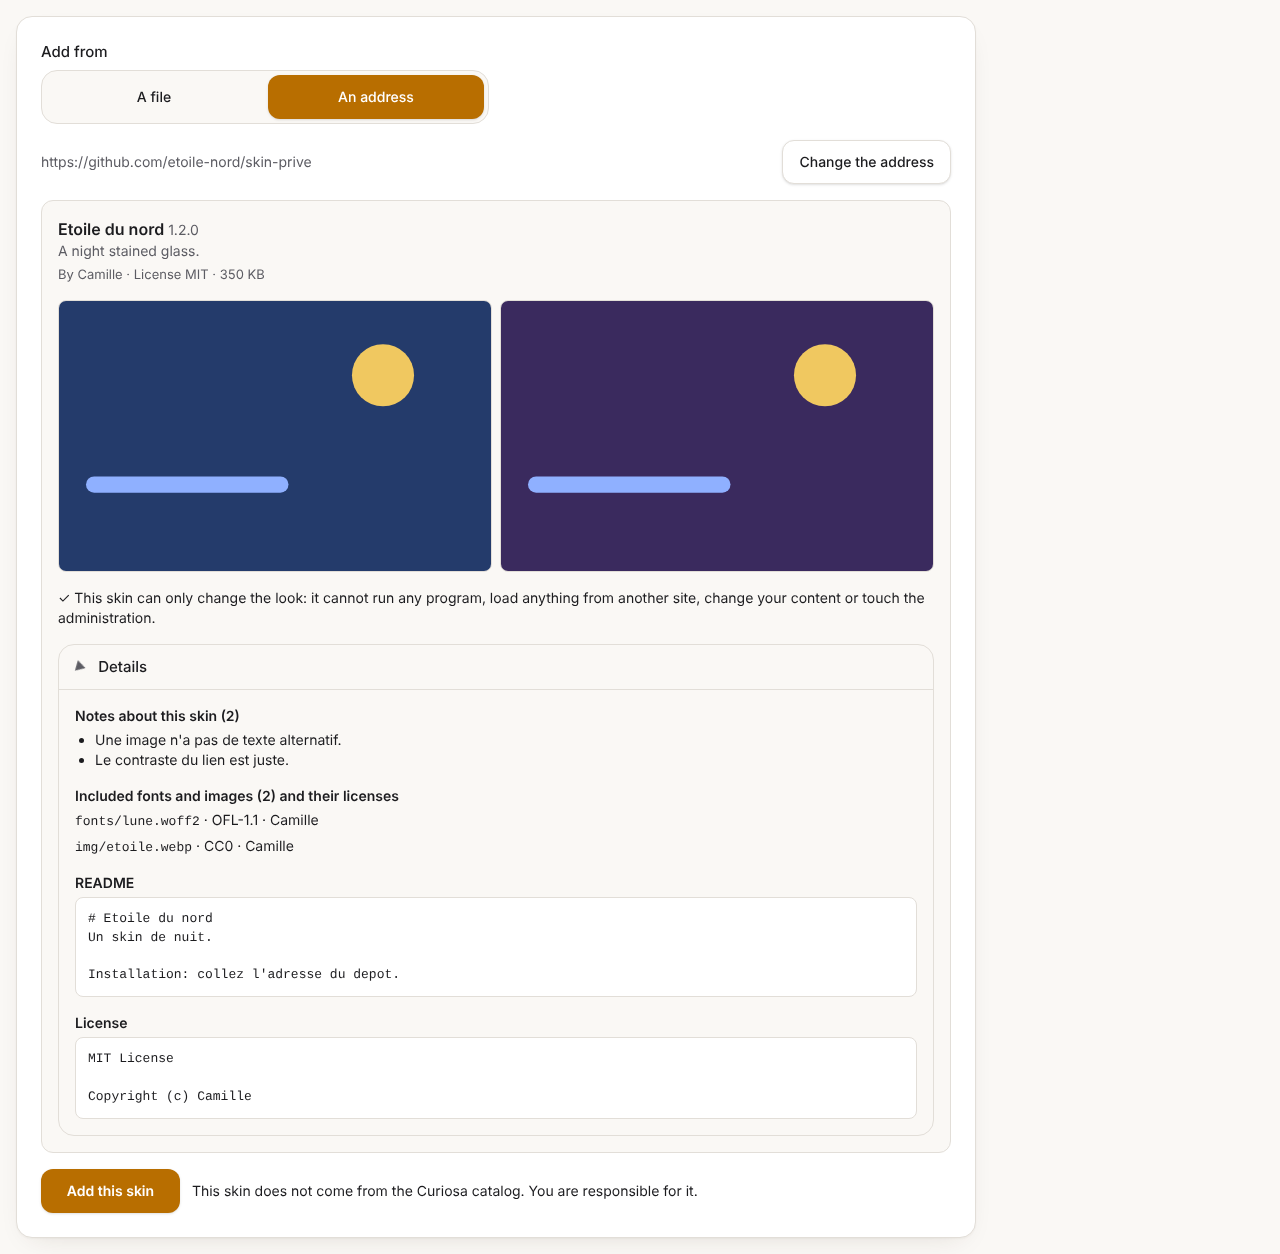
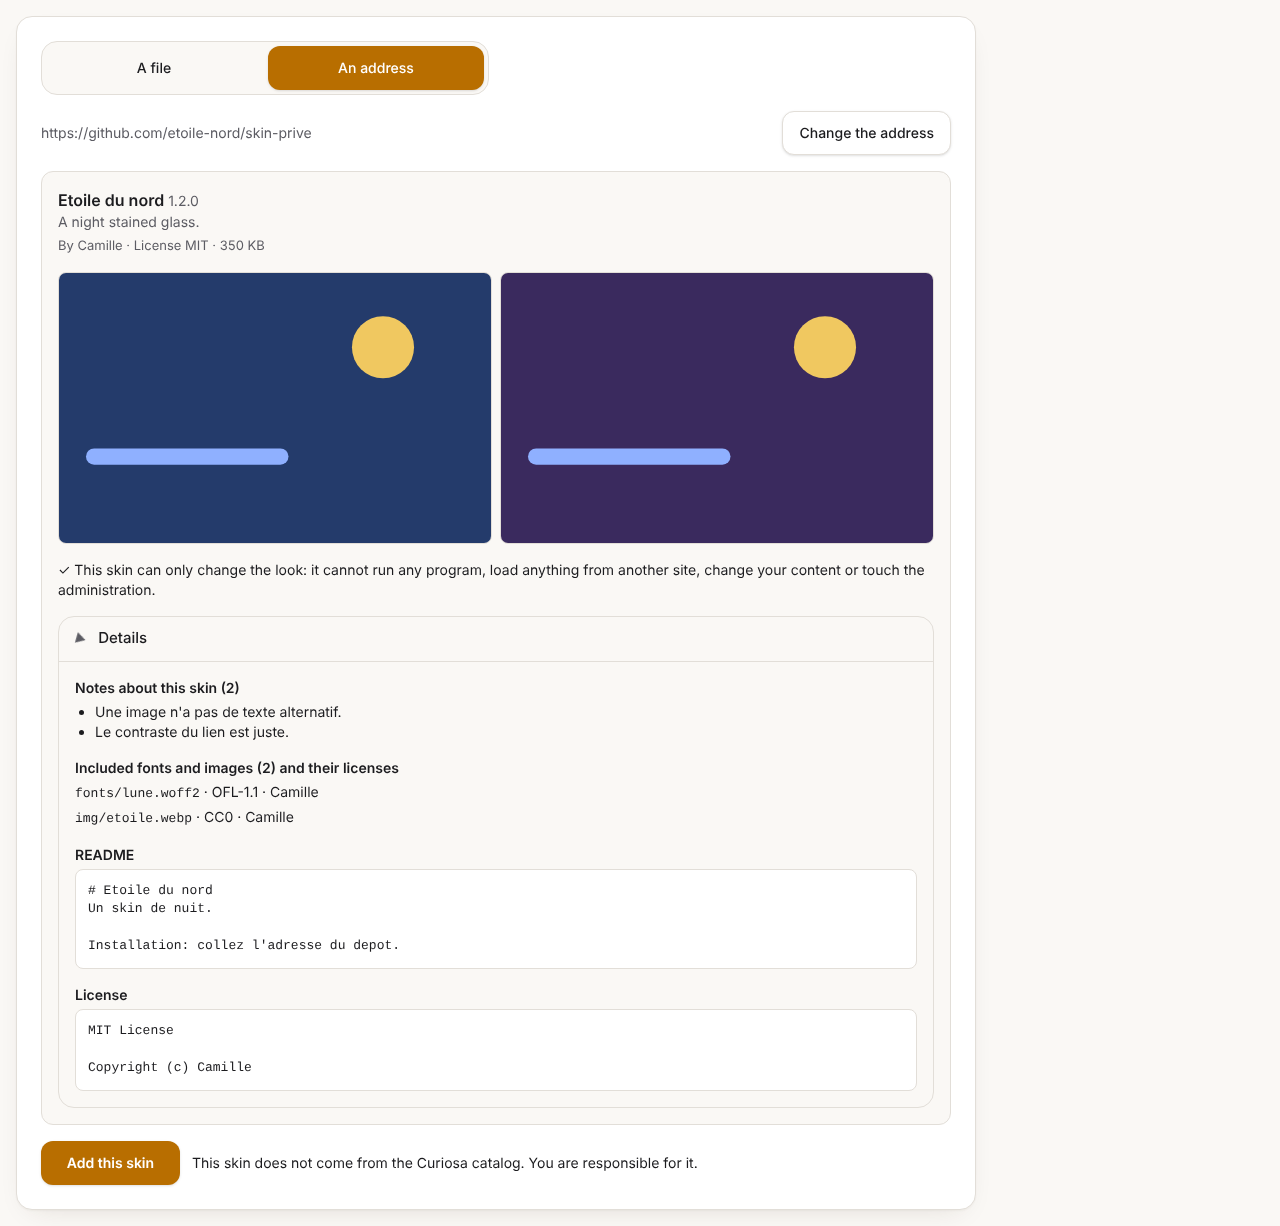
fix(appearance): ways as tabs, shorter changelog notes
CI found two failures: the simple-mode field budget (9 visible fields on
Appearance; the two "way" radios counted) and the changelog length rules.
The way choice is now a tablist (arrow keys, aria-selected, tabpanel), which
is not a form field; Segmented is back to its original form. Changelog notes
shortened to the allowed size. Screenshots refreshed.

Claude-Session: https://claude.ai/code/session_01ESirMuS3Ser2FpEY9j55tg

diff --git a/src/app/admin/(panel)/appearance/AddSkin.tsx b/src/app/admin/(panel)/appearance/AddSkin.tsx
@@ -1,27 +1,41 @@
 "use client";
 
 import { useState, type ComponentProps } from "react";
-import { Segmented } from "@/components/admin/Segmented";
 import { ui } from "@/components/admin/ui";
 import { useAL } from "./AppearanceLabels";
 import { PersonalRepo } from "./PersonalRepo";
 import { UploadSkin } from "./UploadSkin";
 
 type Way = "file" | "address";
+const WAYS: Way[] = ["file", "address"];
 
 /**
- * "Add a skin" for a skin that is not in the catalogue: ONE entry with two ways, a file (.zip) or an address (repository). The choice is two buttons side by side; only the
- * panel of the chosen way is visible, the other keeps what was typed or checked (it is hidden, not removed).
+ * "Add a skin" for a skin that is not in the catalogue: ONE entry with two ways, a file (.zip) or an address (repository). The choice is two tabs side by side (arrow keys
+ * move between them); only the panel of the chosen way is visible, the other keeps what was typed or checked (it is hidden, not removed).
  */
 export function AddSkin({ locale, initial }: { locale: "fr" | "en"; /** The state the block starts in (render tests and screenshots): the way, and what each way starts with. */ initial?: { way?: Way; address?: ComponentProps<typeof PersonalRepo>["initial"]; file?: ComponentProps<typeof UploadSkin>["initial"] } }) {
   const al = useAL();
   const [way, setWay] = useState<Way>(initial?.way ?? "file");
+  const onKey = (e: React.KeyboardEvent) => {
+    if (e.key !== "ArrowRight" && e.key !== "ArrowLeft" && e.key !== "ArrowDown" && e.key !== "ArrowUp") return;
+    e.preventDefault();
+    const next = WAYS[(WAYS.indexOf(way) + 1) % WAYS.length]!;
+    setWay(next);
+    requestAnimationFrame(() => document.getElementById(`skin-way-${next}`)?.focus());
+  };
   return (
     <section className={`${ui.card} space-y-4`} data-testid="add-skin" aria-label={al("appearance.add.title")}>
-      <div className="max-w-md"><Segmented label={al("appearance.way.label")} name="skinWay" value={way} onChange={(v) => setWay(v === "address" ? "address" : "file")}
-        options={[{ value: "file", label: al("appearance.way.file") }, { value: "address", label: al("appearance.way.address") }]} /></div>
-      <div hidden={way !== "file"} data-way="file"><UploadSkin bare initial={initial?.file} /></div>
-      <div hidden={way !== "address"} data-way="address"><PersonalRepo locale={locale} initial={initial?.address} /></div>
+      <div role="tablist" aria-label={al("appearance.way.label")} className="flex max-w-md flex-wrap gap-1.5 rounded-2xl border border-line bg-bg p-1" onKeyDown={onKey}>
+        {WAYS.map((w) => (
+          <button key={w} type="button" role="tab" id={`skin-way-${w}`} aria-selected={way === w} aria-controls={`skin-panel-${w}`} tabIndex={way === w ? 0 : -1} data-testid={`skin-way-${w}`}
+            onClick={() => setWay(w)}
+            className={`min-h-11 min-w-[7rem] flex-1 rounded-xl px-4 py-2 text-center text-sm font-medium transition-colors focus-visible:outline-2 focus-visible:outline-offset-2 focus-visible:outline-accent ${way === w ? "bg-accent text-accent-fg shadow-sm" : "hover:bg-surface"}`}>
+            <span className="[overflow-wrap:anywhere]">{al(`appearance.way.${w}`)}</span>
+          </button>
+        ))}
+      </div>
+      <div hidden={way !== "file"} data-way="file" role="tabpanel" id="skin-panel-file" aria-labelledby="skin-way-file"><UploadSkin bare initial={initial?.file} /></div>
+      <div hidden={way !== "address"} data-way="address" role="tabpanel" id="skin-panel-address" aria-labelledby="skin-way-address"><PersonalRepo locale={locale} initial={initial?.address} /></div>
     </section>
   );
 }

diff --git a/src/components/admin/Segmented.tsx b/src/components/admin/Segmented.tsx
@@ -13,10 +13,8 @@ export const fitsSegmented = (count: number): boolean => count >= SEGMENTED_MIN 
  * « 2 sur 3 ») posés sous un habillage de bouton : aucun JavaScript, le choix part avec le formulaire sous `name`. Les libellés ne sont JAMAIS tronqués (ils
  * passent à la ligne) et chaque bouton fait au moins 44 px.
  */
-export function Segmented({ label, name, options, defaultValue, help, example, error, required, value, onChange }: {
+export function Segmented({ label, name, options, defaultValue, help, example, error, required }: {
   label: string; name: string; options: { value: string; label: string }[]; defaultValue?: string; help?: string; example?: string; error?: string; required?: boolean;
-  /** Controlled use (a client page that shows one panel per choice): the chosen value and what to do when it changes. Without them the choice is a plain form field. */
-  value?: string; onChange?: (value: string) => void;
 }) {
   const current = options.some((o) => o.value === defaultValue) ? defaultValue : options[0]?.value;
   const tip = isLongHelp(help) ? help : undefined;
@@ -27,8 +25,7 @@ export function Segmented({ label, name, options, defaultValue, help, example, e
       <div className="flex flex-wrap gap-1.5 rounded-2xl border border-line bg-bg p-1" role="presentation">
         {options.map((o) => (
           <label key={o.value} className="relative flex min-h-11 min-w-[7rem] flex-1 cursor-pointer items-center justify-center rounded-xl px-4 py-2 text-center text-sm font-medium transition-colors hover:bg-surface has-[:checked]:bg-accent has-[:checked]:text-accent-fg has-[:checked]:shadow-sm has-[:focus-visible]:outline-2 has-[:focus-visible]:outline-offset-2 has-[:focus-visible]:outline-accent">
-            <input type="radio" name={name} value={o.value} required={required} className="peer sr-only"
-              {...(onChange ? { checked: o.value === (value ?? current), onChange: () => onChange(o.value) } : { defaultChecked: o.value === current })} />
+            <input type="radio" name={name} value={o.value} defaultChecked={o.value === current} required={required} className="peer sr-only" />
             <span className="[overflow-wrap:anywhere]">{o.label}</span>
           </label>
         ))}

diff --git a/CHANGELOG.md b/CHANGELOG.md
@@ -11,10 +11,10 @@ Les sections sont rédigées avant chaque publication (un test vérifie que la v
 
 ### Nouveautés
 
-- **Apparence : « Ajouter un skin » tient en un seul endroit, avec deux façons (un fichier, une adresse).** Pour une adresse : vous collez l'adresse, un seul bouton « Vérifier l'adresse » ; si le dépôt est privé, le champ du code d'accès apparaît juste dessous, avec le même bouton ; vous voyez ce que le skin apporte (les notes, licences, README sont repliés sous « Détails »), puis un seul bouton « Ajouter ce skin ». Plus de cases à cocher.
-- **(English) Appearance: "Add a skin" is one place with two ways (a file, an address).** For an address: you paste it and press one button, "Check the address"; for a private repository the access code field appears right under it, with the same button; you see what the skin brings (notes, licenses and README are folded under "Details"), then one button, "Add this skin". No more tick boxes.
-- **Les skins ajoutés sont dans un seul tableau avec recherche.** Chaque ligne dit d'où vient le skin (catalogue, adresse, fichier) et, pour un dépôt privé, si l'accès est configuré ; un bouton (chercher une mise à jour, ou modifier l'accès s'il est à saisir de nouveau) et un menu « ⋯ » (modifier l'accès, revenir à la version d'avant, retirer) ; chaque action s'ouvre dans une fenêtre.
-- **(English) Added skins are in one table with a search.** Each row says where the skin comes from (catalogue, address, file) and, for a private repository, whether access is configured; one button (look for an update, or edit the access when it must be entered again) and a "..." menu (edit access, go back to the previous version, remove); each action opens in a window.
+- **Apparence : « Ajouter un skin » tient en un seul endroit, avec deux façons (un fichier, une adresse).** Pour une adresse : vous collez l'adresse, vous voyez ce que le skin apporte, puis un seul bouton « Ajouter ce skin ». Plus de cases à cocher.
+- **(English) Appearance: "Add a skin" is one place with two ways (a file, an address).** For an address: you paste it, see what the skin brings, then press one button, "Add this skin". No more tick boxes.
+- **Les skins ajoutés sont dans un seul tableau avec recherche.** Chaque ligne dit d'où vient le skin et si l'accès est configuré ; un bouton et un menu « ⋯ » (modifier l'accès, revenir à la version d'avant, retirer). Chaque action s'ouvre dans une fenêtre.
+- **(English) Added skins are in one table with a search.** Each row says where the skin comes from and whether access is configured; one button and a "..." menu (edit access, go back to the previous version, remove). Each action opens in a window.
 
 ### Corrections
 
